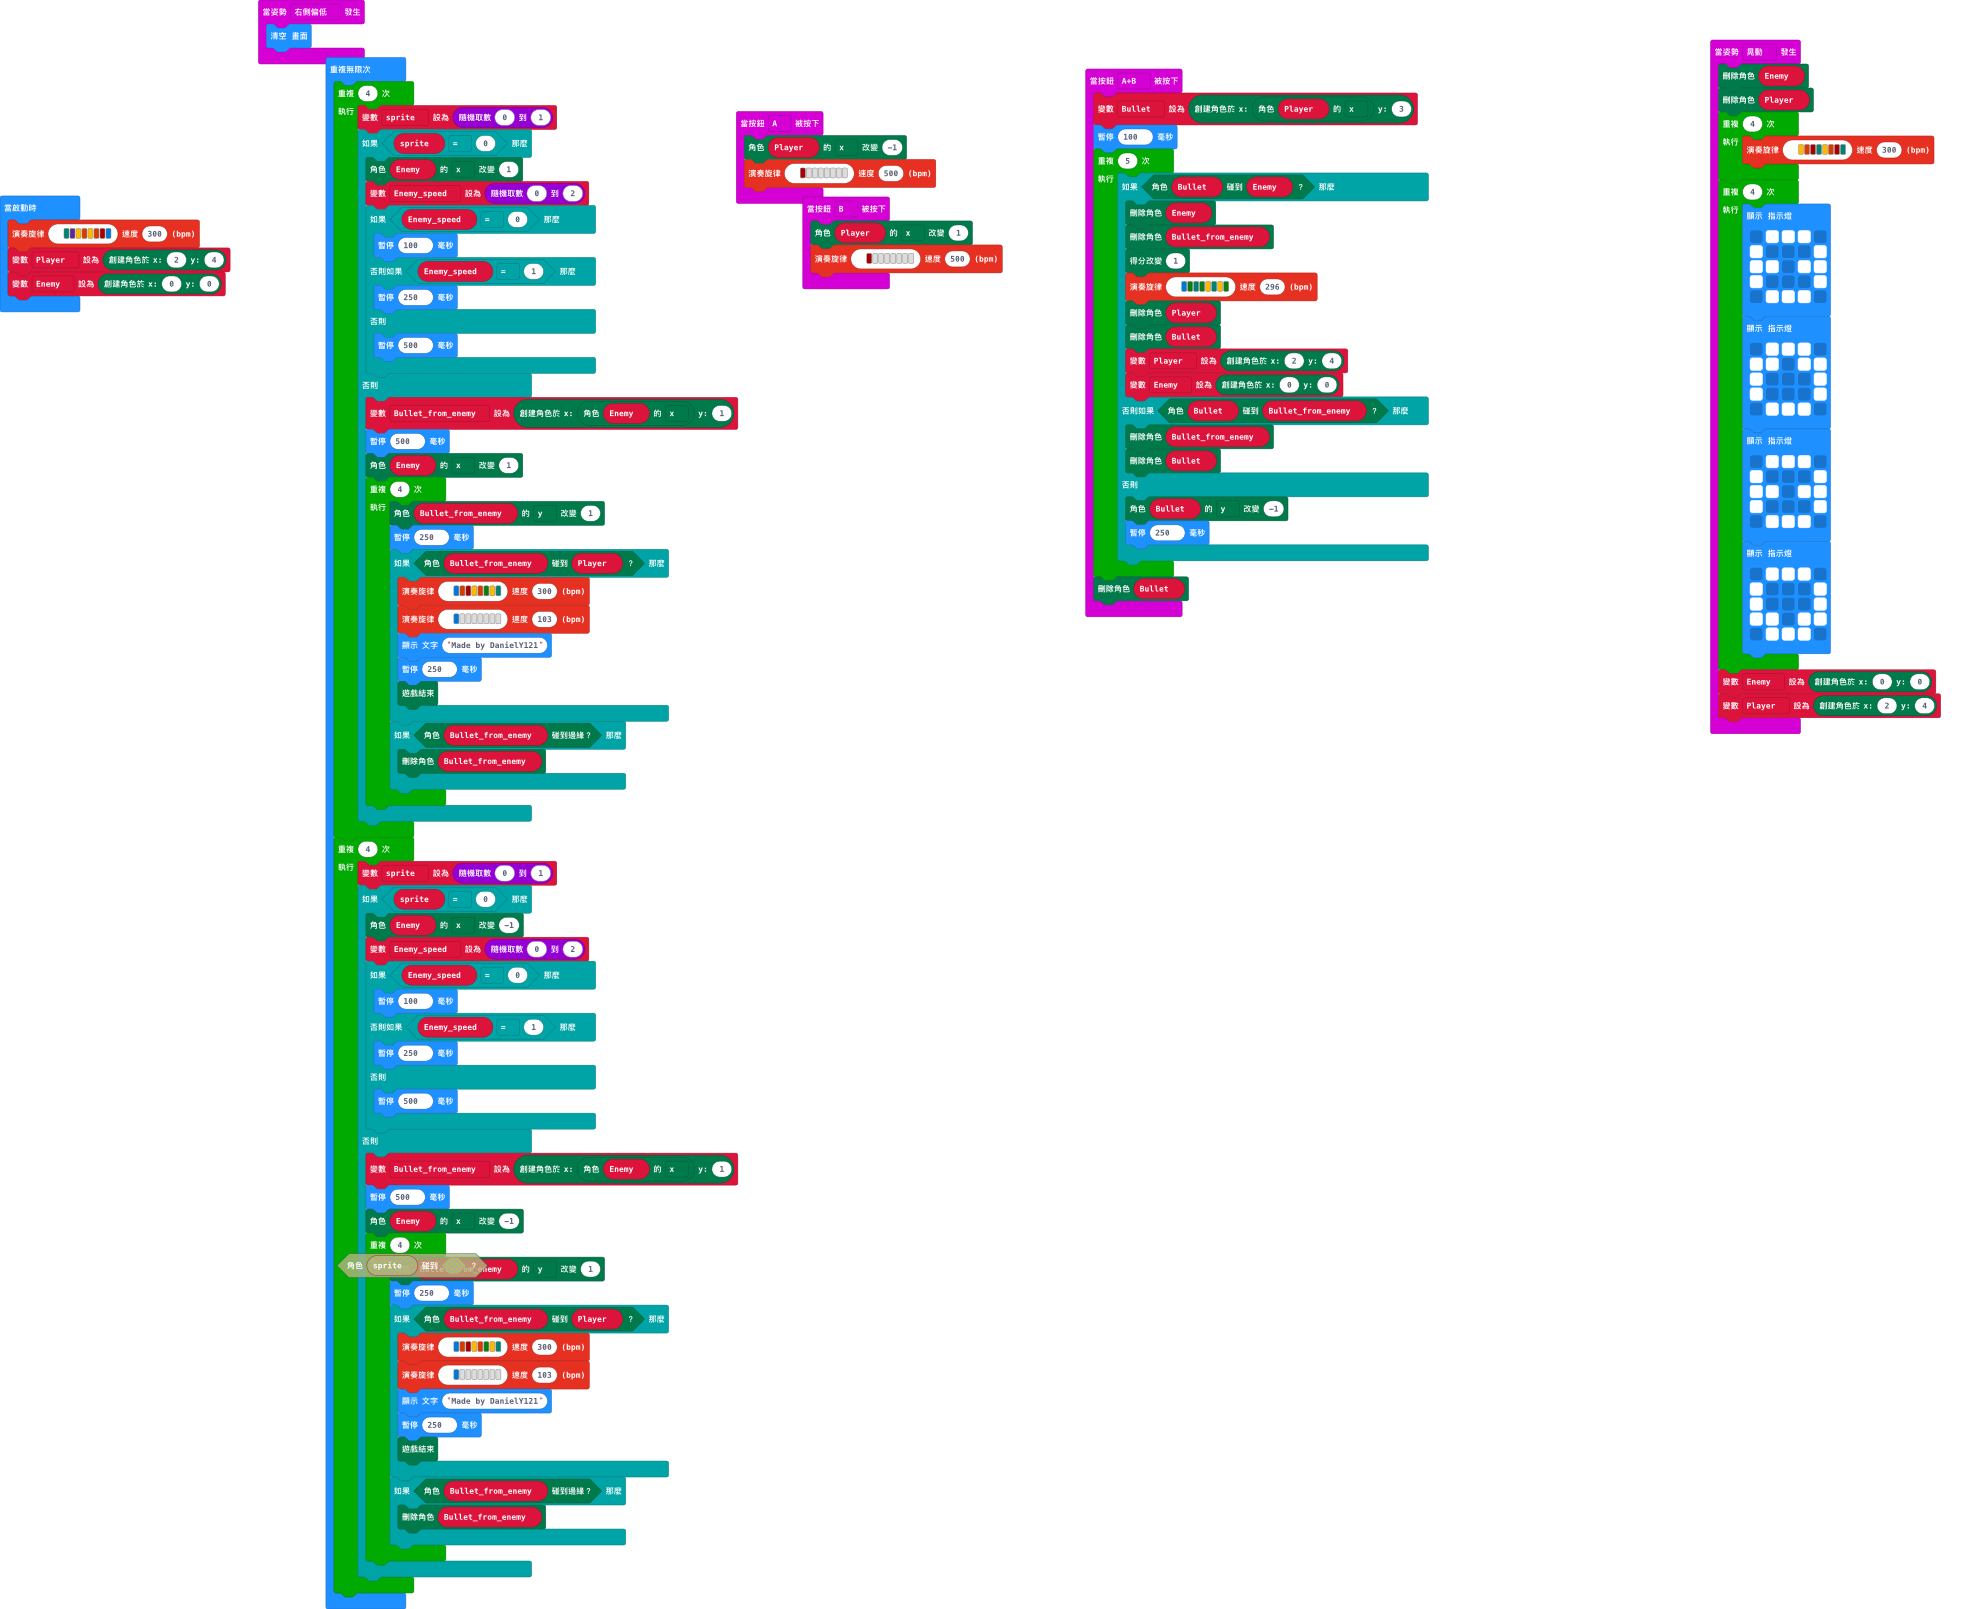
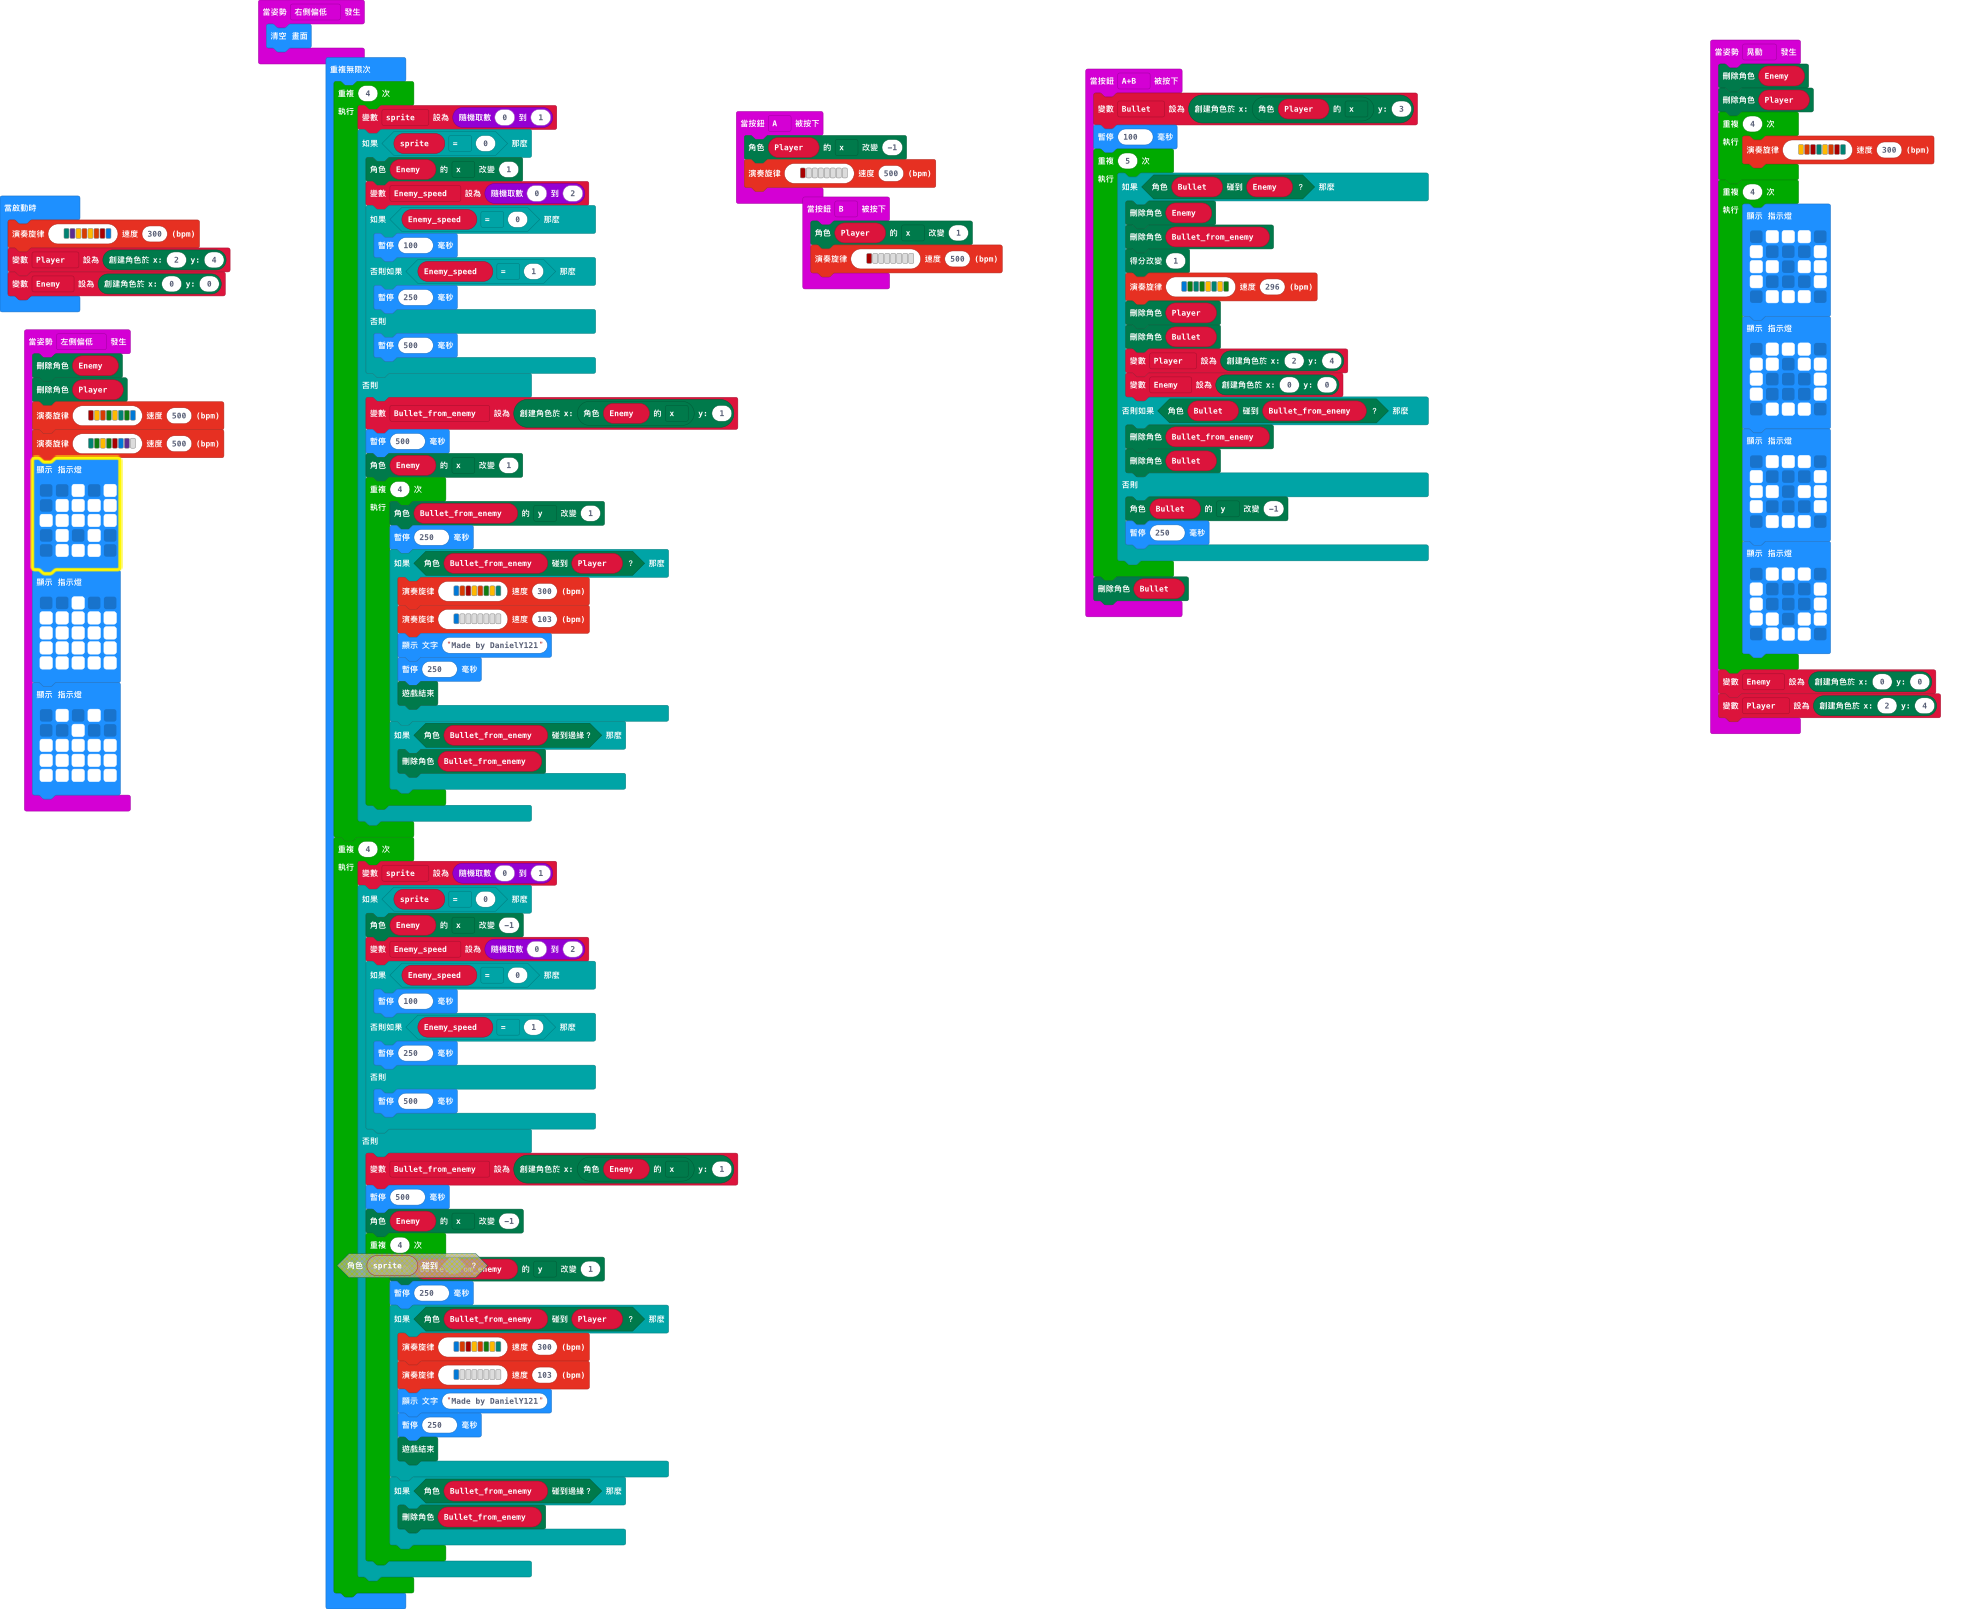
chistmas easter egg added

Changed region(s): [[0.0, 0.1865, 0.1249, 0.5283]]

diff --git a/main.ts b/main.ts
@@ -1,3 +1,30 @@
+input.onGesture(Gesture.TiltLeft, function () {
+    Enemy.delete()
+    Player.delete()
+    music.playMelody("C5 A B G A F G E ", 500)
+    music.playMelody("F G A G C5 E D - ", 500)
+    basic.showLeds(`
+        . . # . #
+        . # # # #
+        # # # # #
+        . # . # .
+        . # # # .
+        `)
+    basic.showLeds(`
+        . . # . .
+        # # # # #
+        # # # # #
+        # # # # #
+        # # # # #
+        `)
+    basic.showLeds(`
+        . # . # .
+        . . # . .
+        # # # # #
+        # # # # #
+        # # # # #
+        `)
+})
 input.onButtonPressed(Button.A, function () {
     Player.change(LedSpriteProperty.X, -1)
     music.playMelody("C5 - - - - - - - ", 500)
